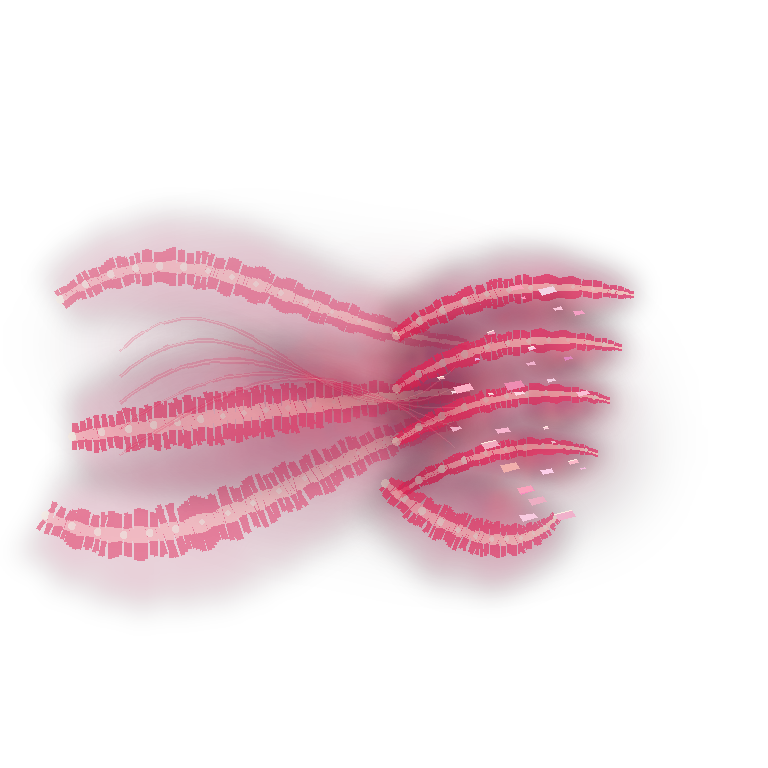
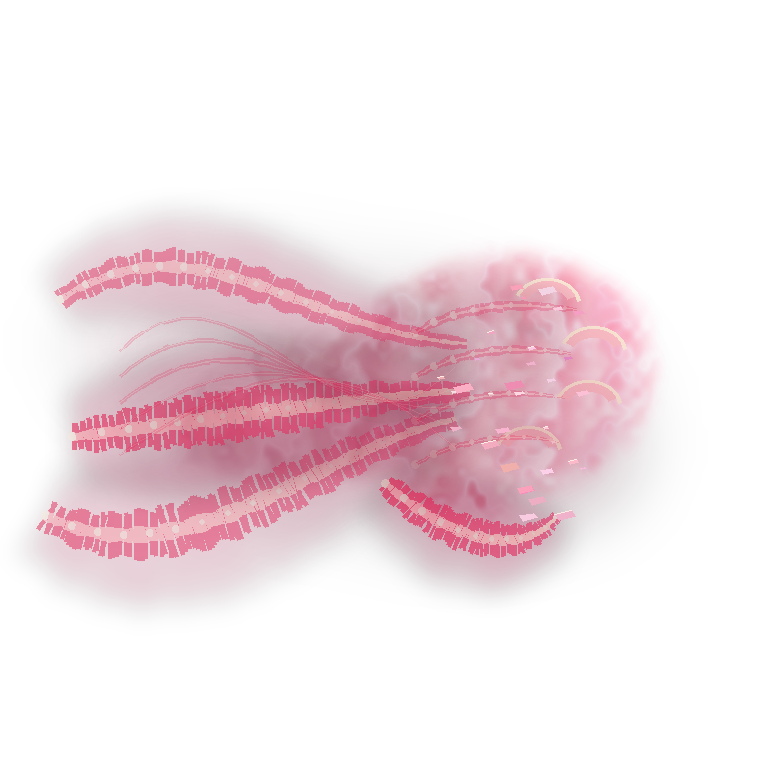
vfx(fist11): R2 repaint nether fist from red claws into compact painted pressure silhouette

Changed region(s): [[0.5, 0.3125, 0.875, 0.6562], [0.25, 0.5625, 0.3125, 0.625], [0.3438, 0.5938, 0.375, 0.625]]

diff --git a/tools/vfx/create_fist11_original_masters.py b/tools/vfx/create_fist11_original_masters.py
@@ -118,18 +118,63 @@ def charge():
     cloud(im,(390,389),68,65,(245,76,105),118,18,30)
     return im
 
+def compact_phantom_fist():
+    """Asymmetric closed-fist paint silhouette with fractured glowing knuckles.
+    This is painted plasma, not a glove or literal anatomical cutout.
+    """
+    silhouette=Image.new('L',(S,S),0)
+    ink=ImageDraw.Draw(silhouette)
+    # Four rounded knuckles compressed into one mass, single thumb under palm.
+    polygon=[(172,411),(260,339),(345,335),(400,287),(465,261),
+             (514,256),(564,265),(610,287),(641,318),(640,347),
+             (651,364),(645,392),(639,412),(627,437),(599,465),
+             (571,482),(530,492),(493,519),(450,521),(426,483),
+             (354,472),(266,480),(182,460)]
+    ink.polygon(polygon,fill=210)
+    for cx,cy,rx,ry in ((525,315,46,48),(572,351,46,40),
+                        (574,404,48,43),(519,447,60,45),(459,480,57,37)):
+        ink.ellipse((cx-rx,cy-ry,cx+rx,cy+ry),fill=225)
+    mask=np.array(silhouette.filter(ImageFilter.GaussianBlur(10)),dtype=np.float32)/255.
+    yy,xx=np.mgrid[:S,:S].astype(np.float32)
+    rn=np.random.default_rng(88911)
+    texture=np.zeros((S,S),dtype=np.float32)
+    for grid,weight in ((6,.31),(13,.23),(33,.17),(79,.12)):
+        tile=Image.fromarray((rn.random((grid,grid))*255).astype('uint8'),'L')
+        texture+=(np.array(tile.resize((S,S),Image.Resampling.BICUBIC),dtype=np.float32)/255.-.5)*weight
+    cracks=.62+.27*np.sin(xx*.072+yy*.013+texture*8.)**2
+    mineral=np.clip(.59+texture*2.4,0,1)*cracks
+    # Broken line slots cut through the fill so it remains an energy entity.
+    fracture=np.abs(np.sin((xx+yy*.35)*.042+texture*12))
+    mineral*=np.clip(fracture*.57+.52,.3,1.)
+    mask*=mineral
+    radial=np.clip((xx-270)/370,0,1)
+    alpha=np.clip(mask*(115+130*radial),0,195).astype('uint8')
+    color=np.zeros((S,S,4),dtype='uint8')
+    color[:,:,0]=np.clip(128+116*radial+30*mineral,0,255)
+    color[:,:,1]=np.clip(17+70*mineral*radial+25*fracture,0,160)
+    color[:,:,2]=np.clip(38+72*radial+34*mineral,0,180)
+    color[:,:,3]=alpha
+    im=Image.fromarray(color,'RGBA')
+    d=ImageDraw.Draw(im,'RGBA')
+    # Painted broken knuckle strikes in white-coral, clearly no long claws.
+    for k,(x,y) in enumerate(((552,301),(598,349),(593,403),(533,449))):
+        d.arc((x-38,y-23,x+28,y+27),200,355,fill=(255,215,181,135),width=4)
+        d.arc((x-34,y-20,x+24,y+23),202,342,fill=(255,121,139,120),width=9)
+    return im
+
 def fist():
-    im=volume('fist')
+    im=compact_phantom_fist()
     cloud(im,(378,390),280,134,(126,9,49),98,35,5)
     # Bending forearm current from left, central hollow tendon volume.
     ribbon(im,bez((45,515),(184,584),(312,451),(455,418),126),54,.56,33)
     ribbon(im,bez((60,299),(197,209),(299,331),(466,343),126),38,.50,34)
     ribbon(im,bez((72,436),(233,416),(285,405),(469,389),126),53,.68,35)
     # Four fragmented knuckle pressure ridges (read as an ethereal fist)
+    # Tuck current branches into the COMPACT palm (no extended talons).
     for k in range(4):
-        y=310+k*53
-        ribbon(im,bez((396,y+25),(483,y-32),(561,y-28),(633-k*12,y-16),89),29-k*3,.89,60+k)
-        cloud(im,(587-k*12,y-12),28,19,(255,100,117),77,9,64+k)
+        y=314+k*44
+        ribbon(im,bez((415,y+18),(470,y-15),(528,y-11),(576-k*6,y-5),70),12-k*2,.34,60+k)
+        cloud(im,(542-k*9,y-5),24,17,(255,120,136),50,7,64+k)
     # Thumb wraps down into the hollow fist, visually NOT a glove outline.
     ribbon(im,bez((385,483),(455,545),(524,556),(556,516),90),38,.75,112)
     for j in range(5):

diff --git a/docs/operations/VFX_FIST11_HUYET_LIET_QUYEN_R1_ART_BRIEF_20261116.md b/docs/operations/VFX_FIST11_HUYET_LIET_QUYEN_R1_ART_BRIEF_20261116.md
@@ -18,3 +18,9 @@
 ## Prior acceptance
 - FIST09 Trấn Sơn Hộ Đồng owner accepted, untouched.
 - FIST10 Bất Động Kim Chung R4 final user removed all hit VFX, preserved in `FIST10_R4_FINAL_NO_HIT_V4`; new native film exact SHA 215e07ba… Action 43900897112 SUCCESS.
+
+## R1 exact-SHA self-art rejection and R2 compact source (2026-11-16)
+- R1 commit `c7da5ad5a53921f7183c444349239092549cd0be`, Actions #43903967944: **technical success** with 3 painted original masters, 28 alpha poses, 1280×720 Godot native MP4 and G3.5 at .25/.59/.84; artifact #14244202092.
+- Visual 1× review: projectile reads as several disconnected long magenta claws instead of a strong clenched martial punch. R1 **ART_SELF_FAIL**, despite technical pass.
+- R2 source revision keeps first-party original charge/contact but **repaints just the compressed fist master** with contiguous broken-pigment palm, pressure knuckles, thumb and short luminous veins. No borrowed commercial/master from other schools; no GIF. Source generator included for provenance.
+- DO NOT claim owner art PASS or gameplay integration from Godot test pass. Still `ART_MANUAL_REVIEW` / `OWNER_VISUAL_PENDING` / `PVE_HOLD`.
